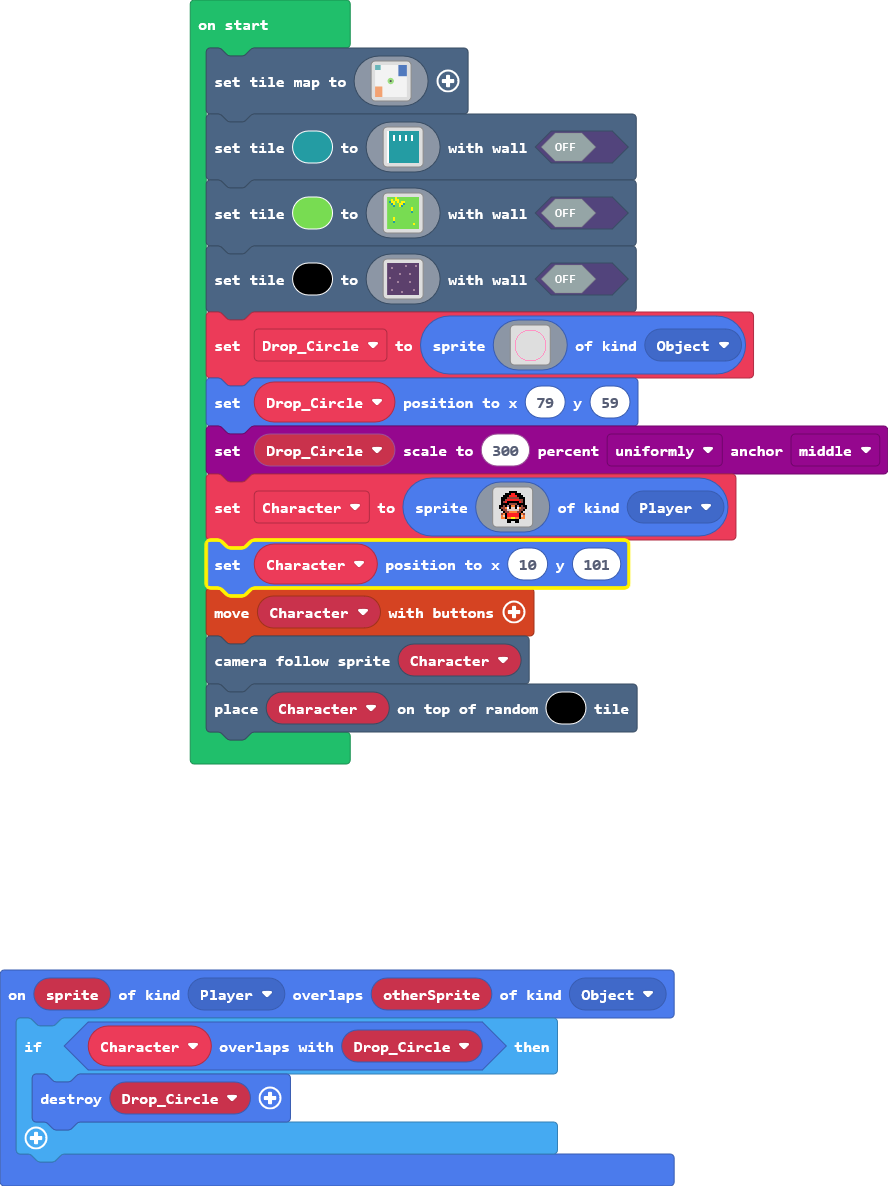
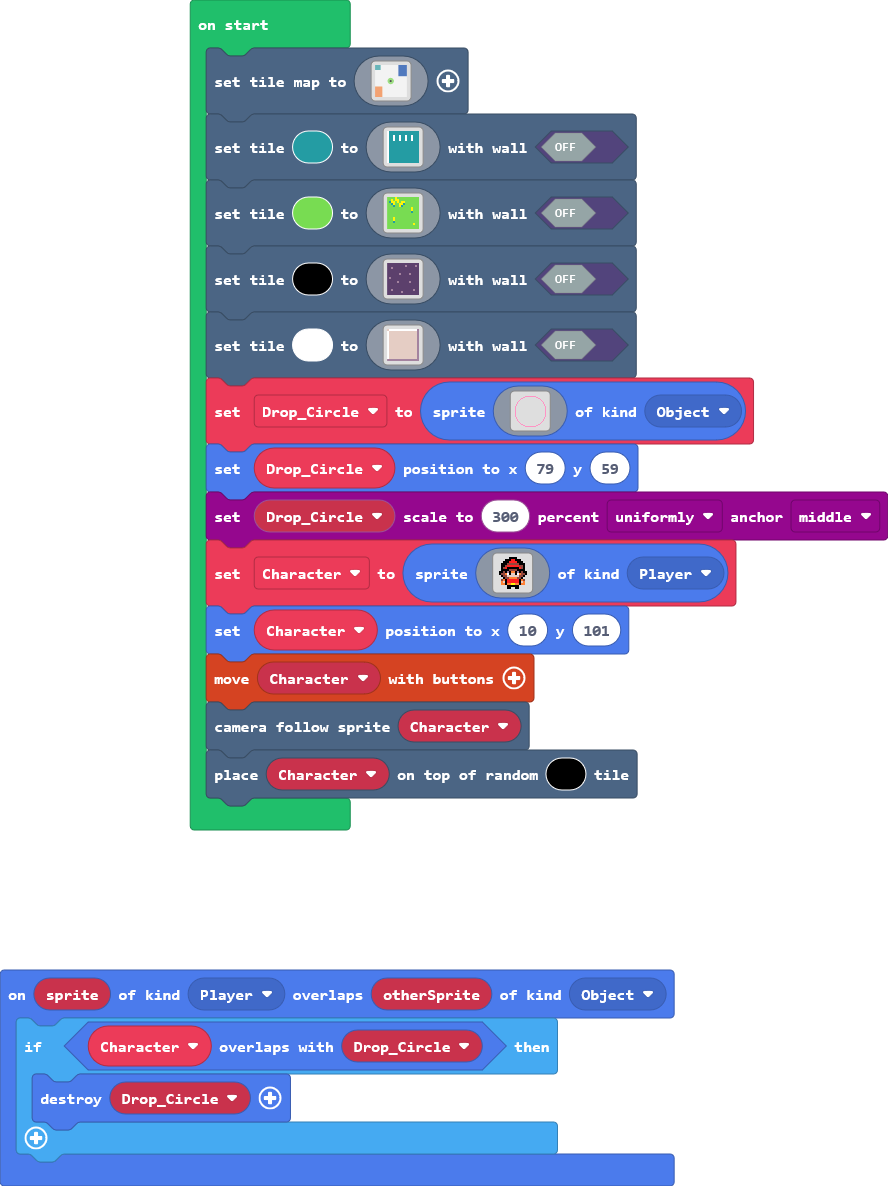
Update main.blocks, main.ts

Changed region(s): [[0.2128, 0.2496, 1.0, 0.7175]]

diff --git a/main.ts b/main.ts
@@ -197,6 +197,24 @@ scene.setTile(15, img`
     c c c c c c c b c c c c c c c c 
     c c c c c c c c c c c c c c c c 
     `, false)
+scene.setTile(1, img`
+    d 1 1 1 1 1 1 1 1 1 1 1 1 1 1 b 
+    1 d d d d d d d d d d d d d d b 
+    1 d d d d d d d d d d d d d d b 
+    1 d d d d d d d d d d d d d d b 
+    1 d d d d d d d d d d d d d d b 
+    1 d d d d d d d d d d d d d d b 
+    1 d d d d d d d d d d d d d d b 
+    1 d d d d d d d d d d d d d d b 
+    1 d d d d d d d d d d d d d d b 
+    1 d d d d d d d d d d d d d d b 
+    1 d d d d d d d d d d d d d d b 
+    1 d d d d d d d d d d d d d d b 
+    1 d d d d d d d d d d d d d d b 
+    1 d d d d d d d d d d d d d d b 
+    1 d d d d d d d d d d d d d d b 
+    b b b b b b b b b b b b b b b b 
+    `, false)
 Drop_Circle = sprites.create(img`
     ................................
     ...........33333333333..........
